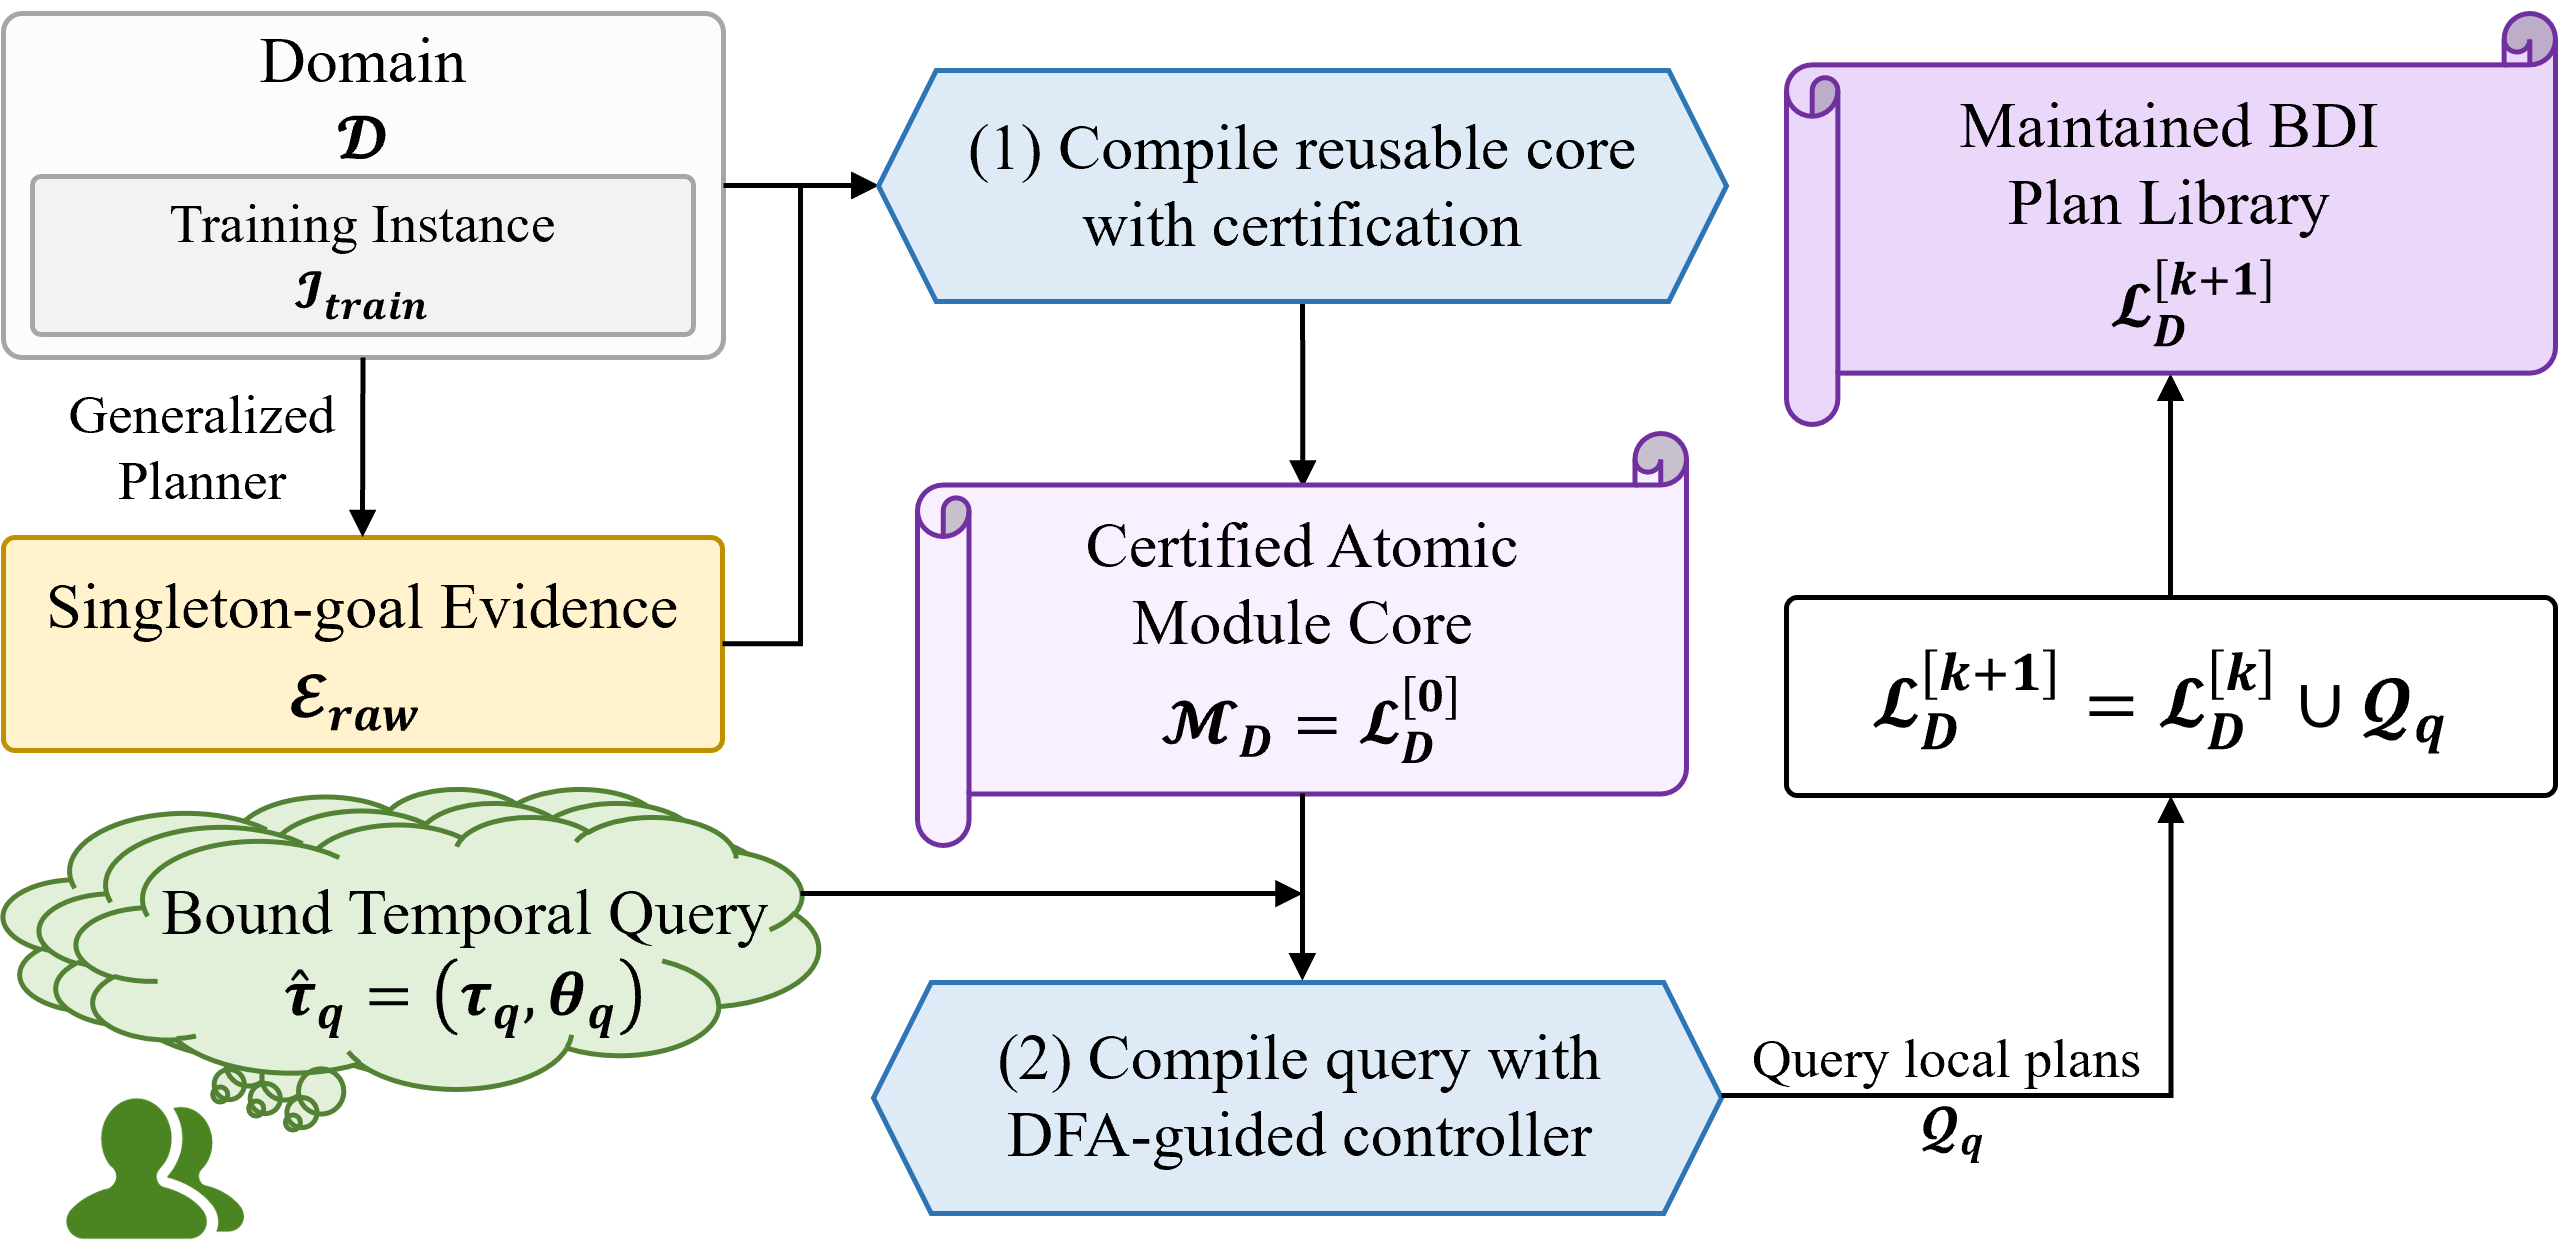
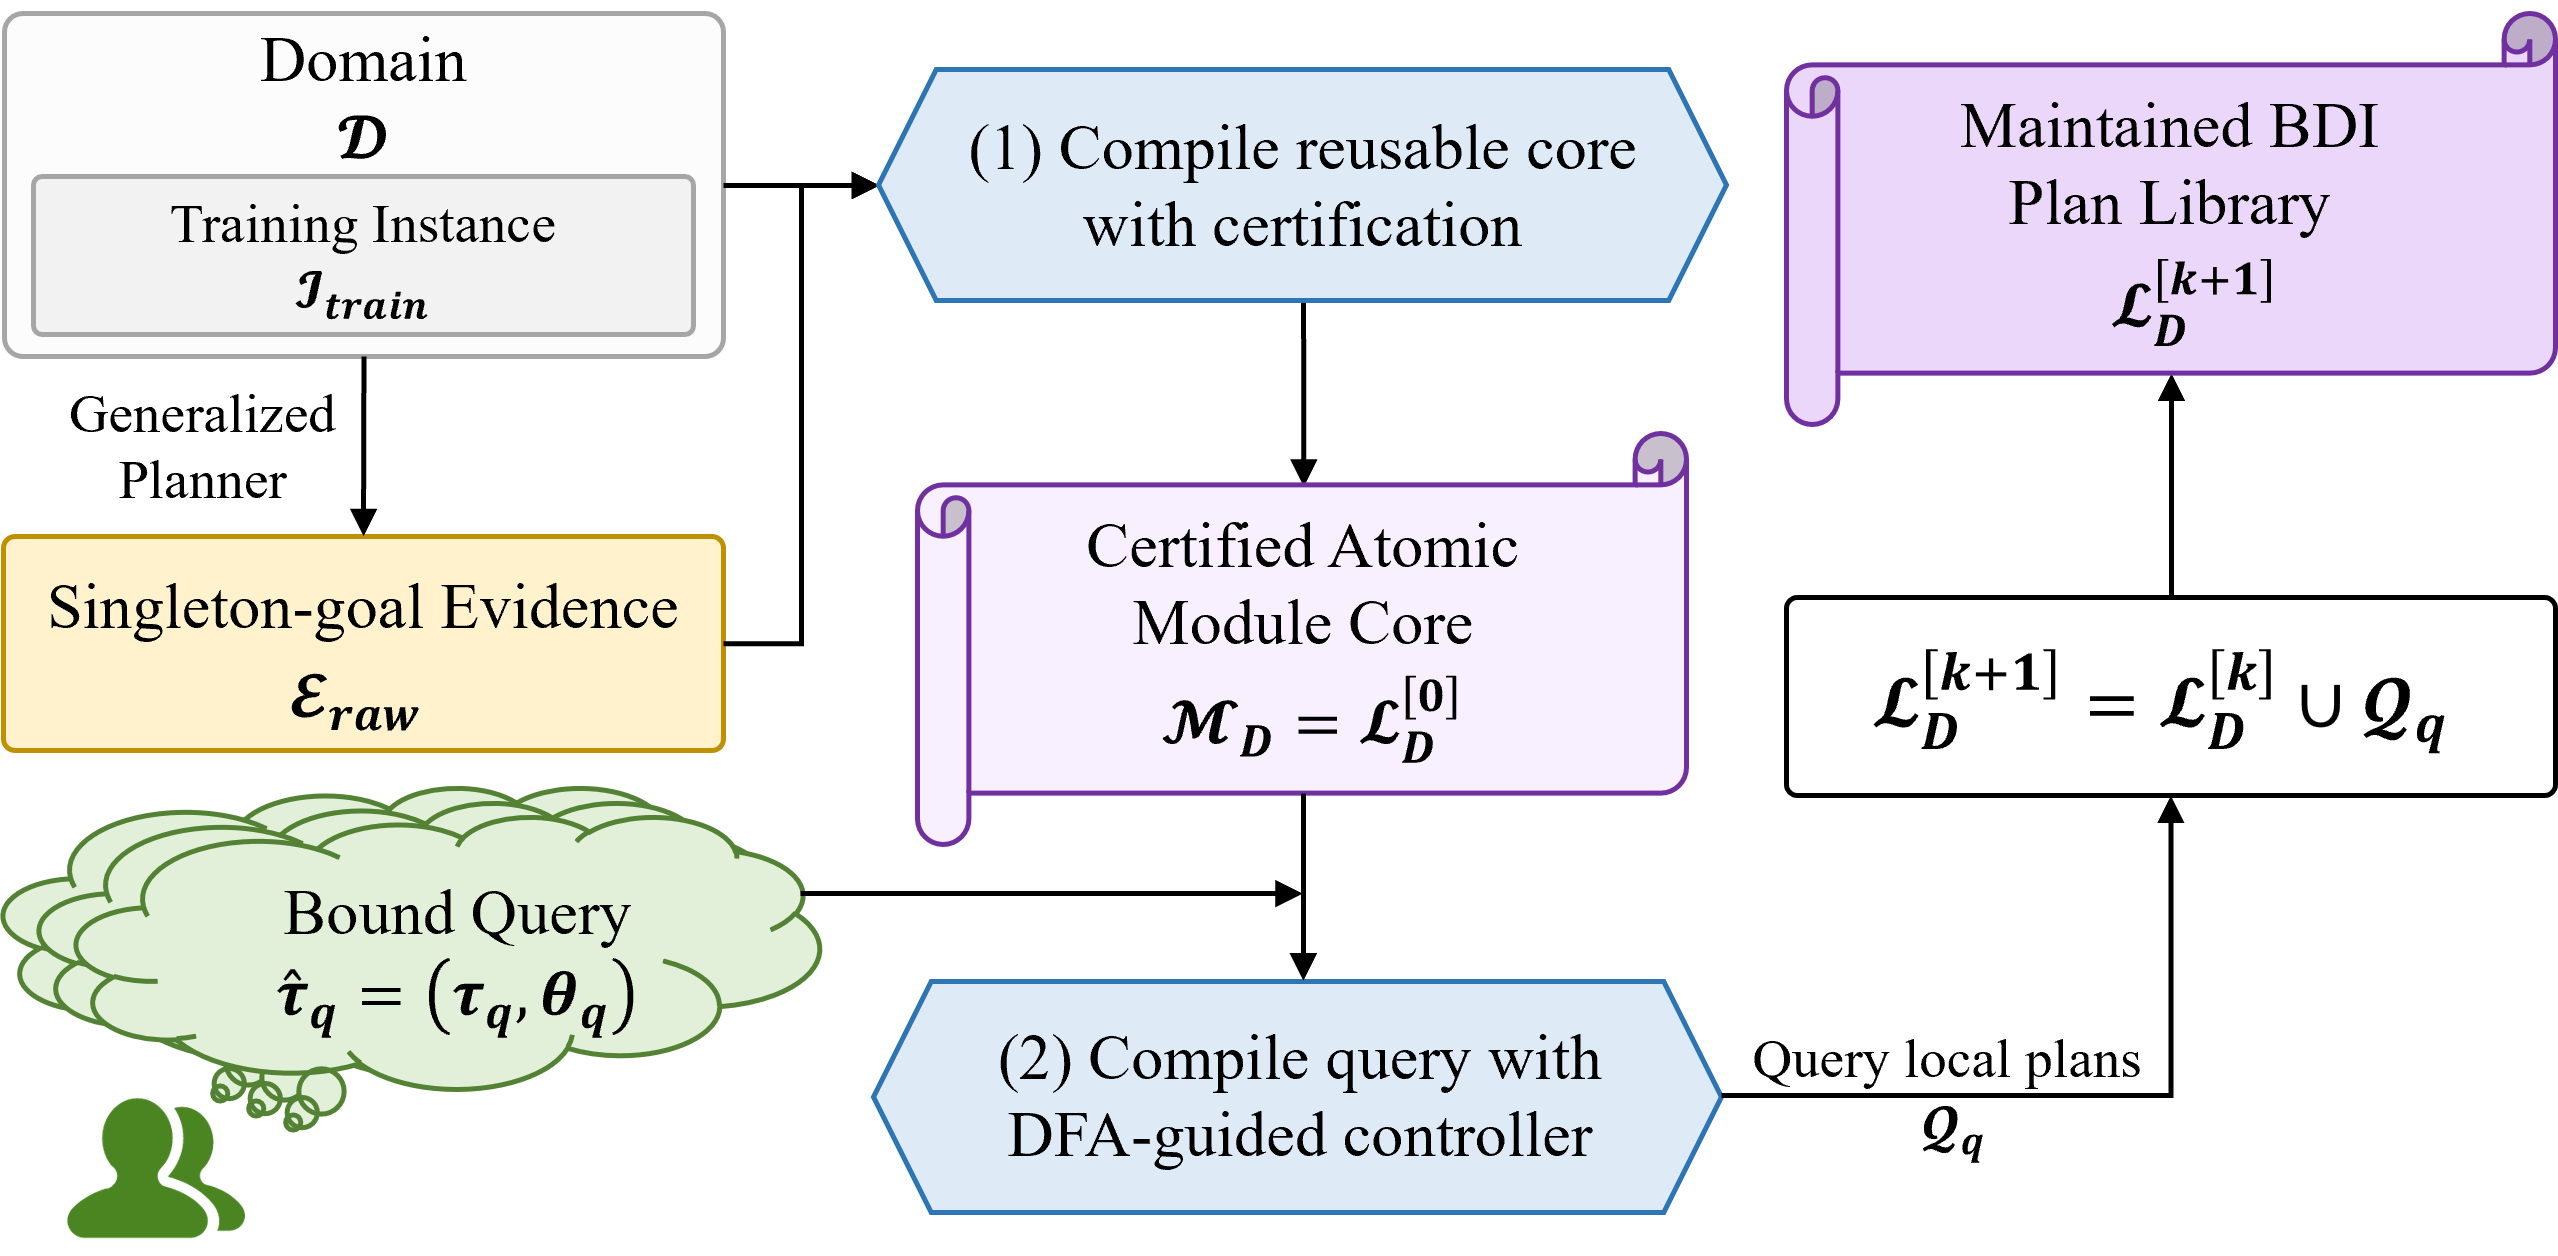
docs: refresh Figure 1 and tighten abstract

diff --git a/latex_code/aamas_method_paper/main.tex b/latex_code/aamas_method_paper/main.tex
@@ -66,15 +66,11 @@ compact closed atomic core, and appends DFA-guided query controllers without
 relearning that core. For the
 generated candidate language and supported fragment, accepted branches and
 controllers satisfy conditional soundness guarantees; uncertified obligations
-are rejected. Across five fixed evidence seeds, mean held-out coverage over
-\BenchmarkDomainCount{} domains is \AtomicFiveSeedMeanSuccessPercent{}\%, with a
-sample standard deviation of \AtomicFiveSeedSampleSDPercent{} percentage points.
-Recursive candidates improve paired atomic success by 10.42 percentage points,
-and preservation certification improves paired temporal success by 9.36
-percentage points. All \TranslationEquivalentCount{} controlled-language
-translations match their gold finite-trace languages, and all
-\TEGProblemCount{} admitted bound queries produce independently validated
-accepting traces.
+are rejected. Across \BenchmarkDomainCount{} classical and numeric domains,
+five-seed atomic libraries achieve \AtomicFiveSeedMeanSuccessPercent{}\% mean
+held-out coverage; all \TranslationEquivalentCount{} controlled-language
+translations and \TEGProblemCount{} admitted bound queries pass independent
+semantic validation.
 \end{abstract}
 
 \section{Introduction}
@@ -99,7 +95,7 @@ composition guarantees required by an executable BDI library.
 GP2PL addresses this representation gap as shown in
 Figure~\ref{fig:architecture}. It compiles the evidence once into a certified,
 reusable atomic module core, then reuses that core when compiling each bound
-query into the same maintained library. A query may be an ordinary achievement
+query into the same maintained library. A query may be an achievement
 condition or a temporally extended goal (TEG) \cite{Hindriks2009TemporalGoals};
 the external backend is neither replaced nor rerun.
 